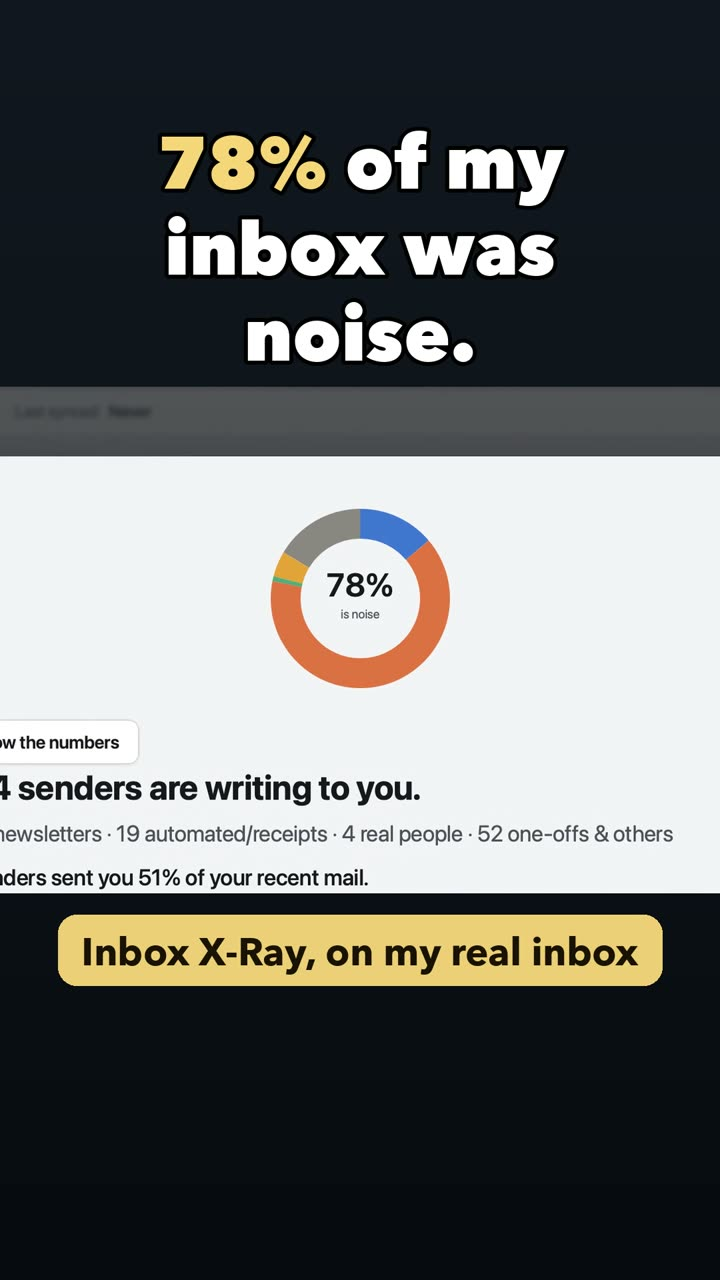
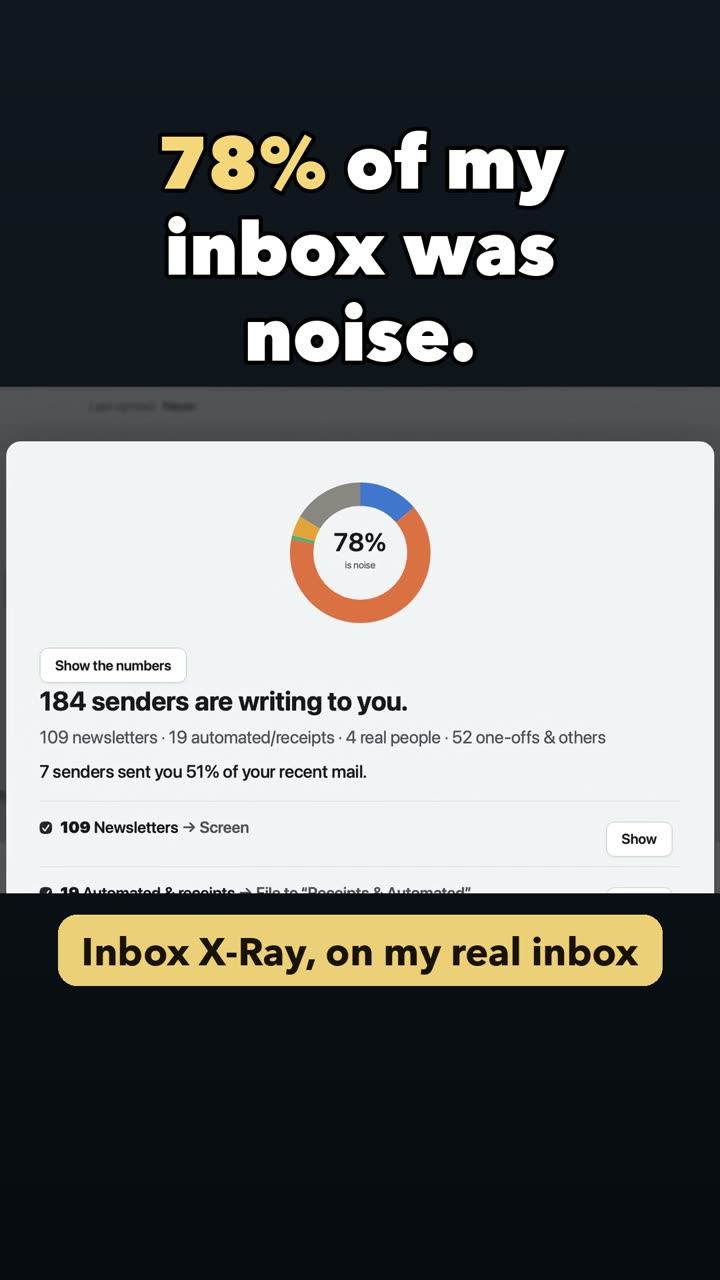
Polish responsive X-Ray demo and metadata

Changed region(s): [[0.0, 0.3438, 1.0, 0.7188], [0.6722, 0.625, 0.9472, 0.6562]]

diff --git a/index.html b/index.html
@@ -23,7 +23,7 @@
     "@type": "SoftwareApplication",
     "name": "Inbox OCD",
     "operatingSystem": "macOS, Windows",
-    "applicationCategory": ["UtilitiesApplication", "BusinessApplication"],
+    "applicationCategory": "UtilitiesApplication",
     "url": "https://inboxocd.com",
     "offers": [
       {
@@ -120,12 +120,17 @@
     .hero .dl-row { margin-top: 30px; }
     .hero .trial { color: var(--text); font-size: 0.98rem; margin-top: 16px; }
     .hero .trial span { color: var(--muted); }
+    .xray-media { display: contents; }
     .shot { margin: 40px auto 0; max-width: 560px; }
     .shot img { display: block; width: 100%; height: auto; border-radius: 16px; border: 1px solid #3a4152; box-shadow: 0 24px 80px #000c; }
     .shot figcaption { color: var(--muted); font-size: 0.85rem; margin-top: 12px; }
     .demo-video { margin: 28px auto 0; max-width: 360px; }
-    .demo-video video { display:block; width:100%; height:auto; border-radius:16px; border:1px solid #3a4152; box-shadow:0 24px 80px #000c; background:#000; }
+    .demo-video video { display:block; width:100%; height:auto; aspect-ratio:9 / 16; border-radius:16px; border:1px solid #3a4152; box-shadow:0 24px 80px #000c; background:#000; }
     .demo-video figcaption { color:var(--muted); font-size:0.85rem; margin-top:12px; }
+    @media (min-width: 900px) {
+      .xray-media { display:grid; grid-template-columns:minmax(0, 1.55fr) minmax(240px, 0.9fr); align-items:center; gap:24px; max-width:820px; margin:40px auto 0; }
+      .xray-media .shot, .xray-media .demo-video { max-width:none; margin:0; }
+    }
     section.steps { padding: 56px 0 8px; }
     section.steps h2, section.inside h2, section.why h2 { font-size: clamp(1.4rem, 3.4vw, 1.8rem); line-height: 1.2; text-align: center; }
     .step-row { display: grid; grid-template-columns: repeat(auto-fit, minmax(230px, 1fr)); gap: 16px; margin-top: 26px; }
@@ -188,16 +193,18 @@
         </div>
       </div>
       <p class="trial"><strong>Free for 14 days.</strong> No card, no account to make. <span>Then $25 once, yours to keep.</span></p>
-      <figure class="shot">
-        <img src="xray.png" width="1361" height="1613" alt="Inbox X-Ray in Inbox OCD: 78% of this inbox is noise. 184 senders are writing to you: 109 newsletters, 19 automated or receipts, 4 real people. Nothing is deleted. Undo anytime.">
-        <figcaption>Inbox X-Ray on a real inbox: 184 senders, 4 of them real people.</figcaption>
-      </figure>
-      <figure class="demo-video">
-        <video autoplay muted loop playsinline preload="none" poster="xray-demo-poster.jpg" aria-label="Inbox OCD Inbox X-Ray demo">
-          <source data-src="xray-demo.mp4" type="video/mp4">
-        </video>
-        <figcaption>See Inbox X-Ray find the real mail under the noise.</figcaption>
-      </figure>
+      <div class="xray-media">
+        <figure class="shot">
+          <img src="xray.png" width="1361" height="1613" alt="Inbox X-Ray in Inbox OCD: 78% of this inbox is noise. 184 senders are writing to you: 109 newsletters, 19 automated or receipts, 4 real people. Nothing is deleted. Undo anytime.">
+          <figcaption>Inbox X-Ray on a real inbox: 184 senders, 4 of them real people.</figcaption>
+        </figure>
+        <figure class="demo-video">
+          <video width="720" height="1280" muted loop playsinline preload="none" poster="xray-demo-poster.jpg" aria-label="Inbox OCD Inbox X-Ray demo">
+            <source data-src="xray-demo.mp4" type="video/mp4">
+          </video>
+          <figcaption>See Inbox X-Ray find the real mail under the noise.</figcaption>
+        </figure>
+      </div>
     </div>
 
     <section class="steps">
@@ -368,6 +375,8 @@
       var video = document.querySelector('.demo-video video');
       var source = video && video.querySelector('source[data-src]');
       if (!video || !source) return;
+      if (window.matchMedia('(prefers-reduced-motion: reduce)').matches) return;
+      video.autoplay = true;
       function loadVideo() {
         source.src = source.dataset.src;
         source.removeAttribute('data-src');

diff --git a/gmail-setup.html b/gmail-setup.html
@@ -11,6 +11,8 @@
   <meta property="og:title" content="Connecting Gmail to Inbox OCD, step by step">
   <meta property="og:description" content="Step-by-step help for connecting Gmail to Inbox OCD while Google finishes reviewing the app, including the temporary unverified-app screen.">
   <meta property="og:image" content="https://inboxocd.com/og-image.png">
+  <meta property="og:image:width" content="1200">
+  <meta property="og:image:height" content="630">
   <meta name="twitter:card" content="summary_large_image">
   <meta name="twitter:title" content="Connecting Gmail to Inbox OCD, step by step">
   <meta name="twitter:description" content="Step-by-step help for connecting Gmail to Inbox OCD while Google finishes reviewing the app, including the temporary unverified-app screen.">

diff --git a/business.html b/business.html
@@ -11,6 +11,8 @@
   <meta property="og:title" content="Inbox OCD for your office">
   <meta property="og:description" content="Fast email sorting for the whole office, on each person's own computer. $20 per seat for Outlook, $45 per seat for Gmail + Outlook, 5 seats minimum.">
   <meta property="og:image" content="https://inboxocd.com/og-image.png">
+  <meta property="og:image:width" content="1200">
+  <meta property="og:image:height" content="630">
   <meta name="twitter:card" content="summary_large_image">
   <meta name="twitter:title" content="Inbox OCD for your office">
   <meta name="twitter:description" content="Fast email sorting for the whole office, on each person's own computer. $20 per seat for Outlook, $45 per seat for Gmail + Outlook, 5 seats minimum.">

diff --git a/scripts/generate-og-image.py b/scripts/generate-og-image.py
@@ -1,5 +1,8 @@
 #!/usr/bin/env python3
-"""Render the 1200x630 Open Graph card from a small local SVG template."""
+"""Render the 1200x630 Open Graph card from a small local SVG template.
+
+Requires rsvg-convert from librsvg.
+"""
 from pathlib import Path
 import base64
 import subprocess
